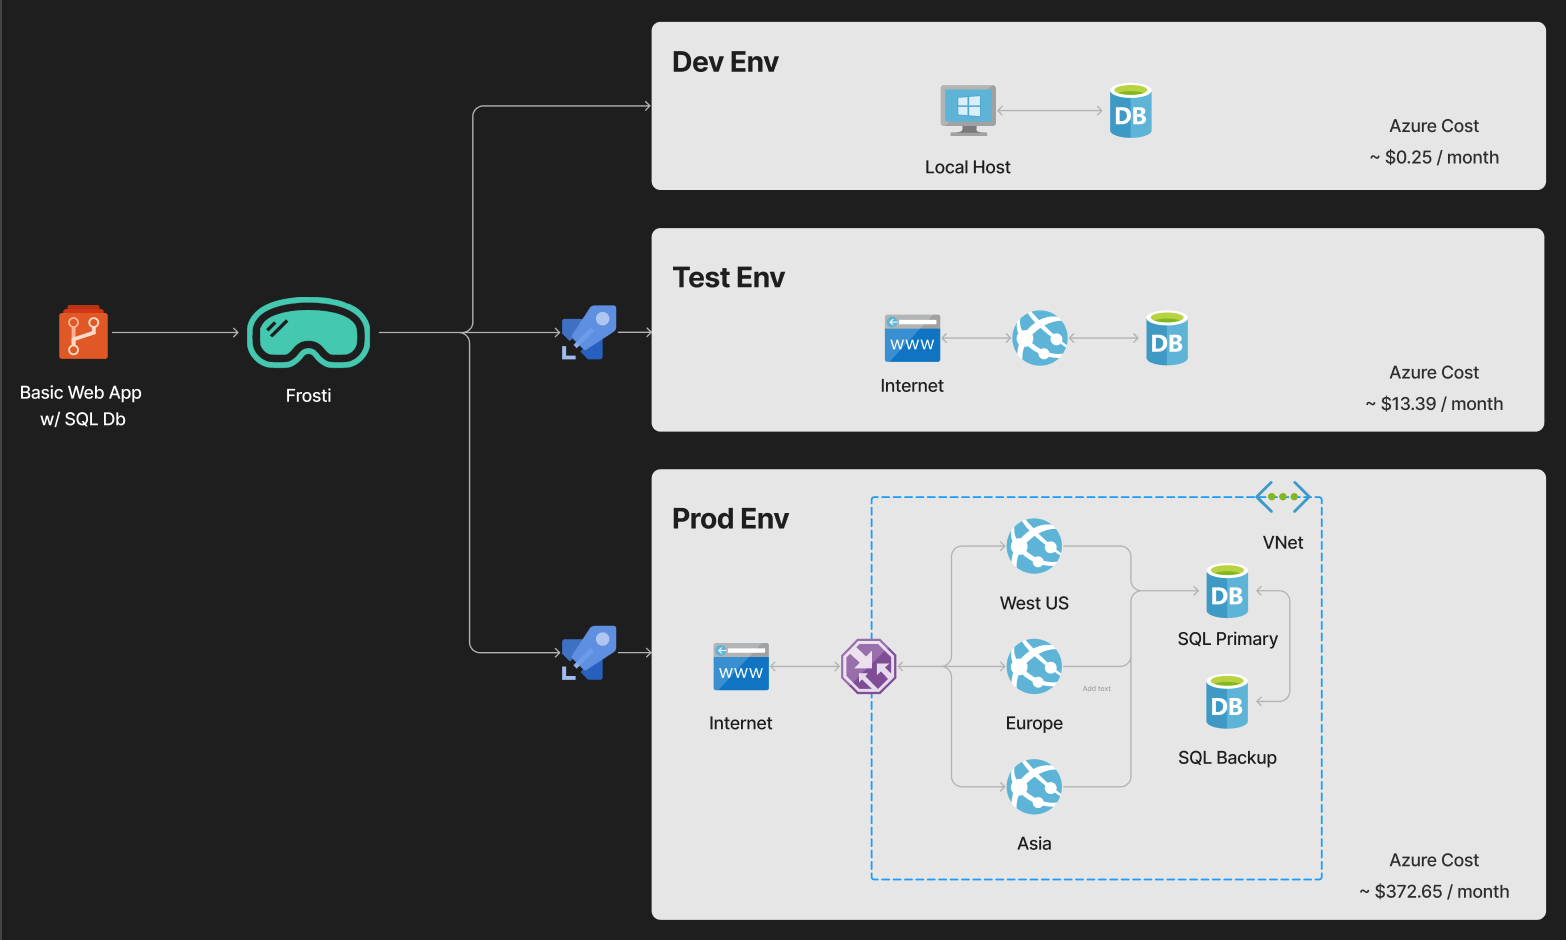
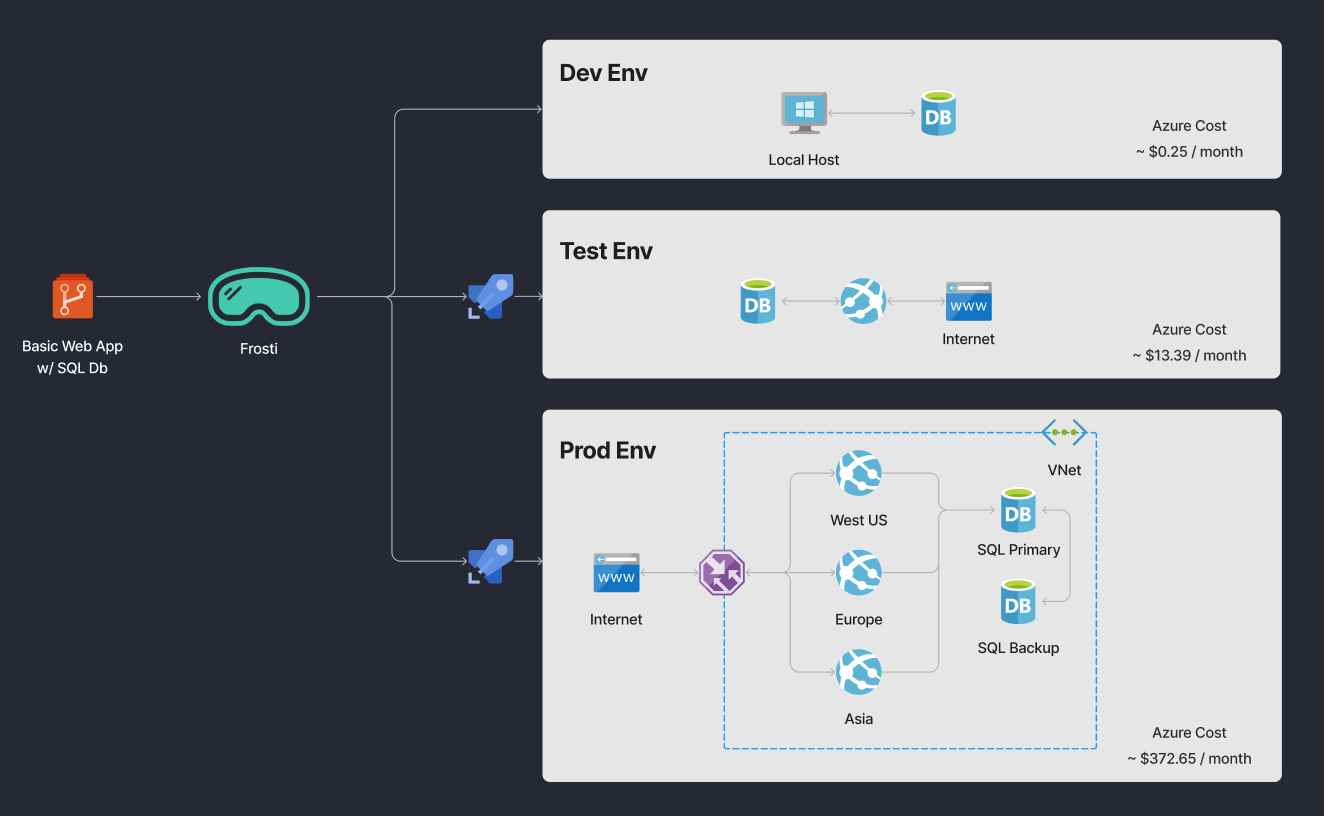
updated pic width and changed background color

diff --git a/src/pages/index.tsx b/src/pages/index.tsx
@@ -75,6 +75,7 @@ const Workflow = () => (
   <Section center>
     <img
       loading="lazy"
+      width="800px"
       alt="Before and After via Frosti"
       src="/img/pages/index/WorkflowDiagram.png"
     />
@@ -84,6 +85,7 @@ const Provision = () => (
   <Section center>
     <img
       loading="lazy"
+      width="900px"
       alt="Frosti Provision"
       src="/img/pages/index/FrostiProvision.png"
     />
@@ -105,14 +107,12 @@ const Home = () => (
 
     <LiveDemo />
     <Workflow />
-    <Provision />
+    
 
     <Section fullWidth odd>
       <Integration />
-    </Section>
-
-  
- 
+      <Provision />
+    </Section>    
 
     <Section>
       <Cards />
